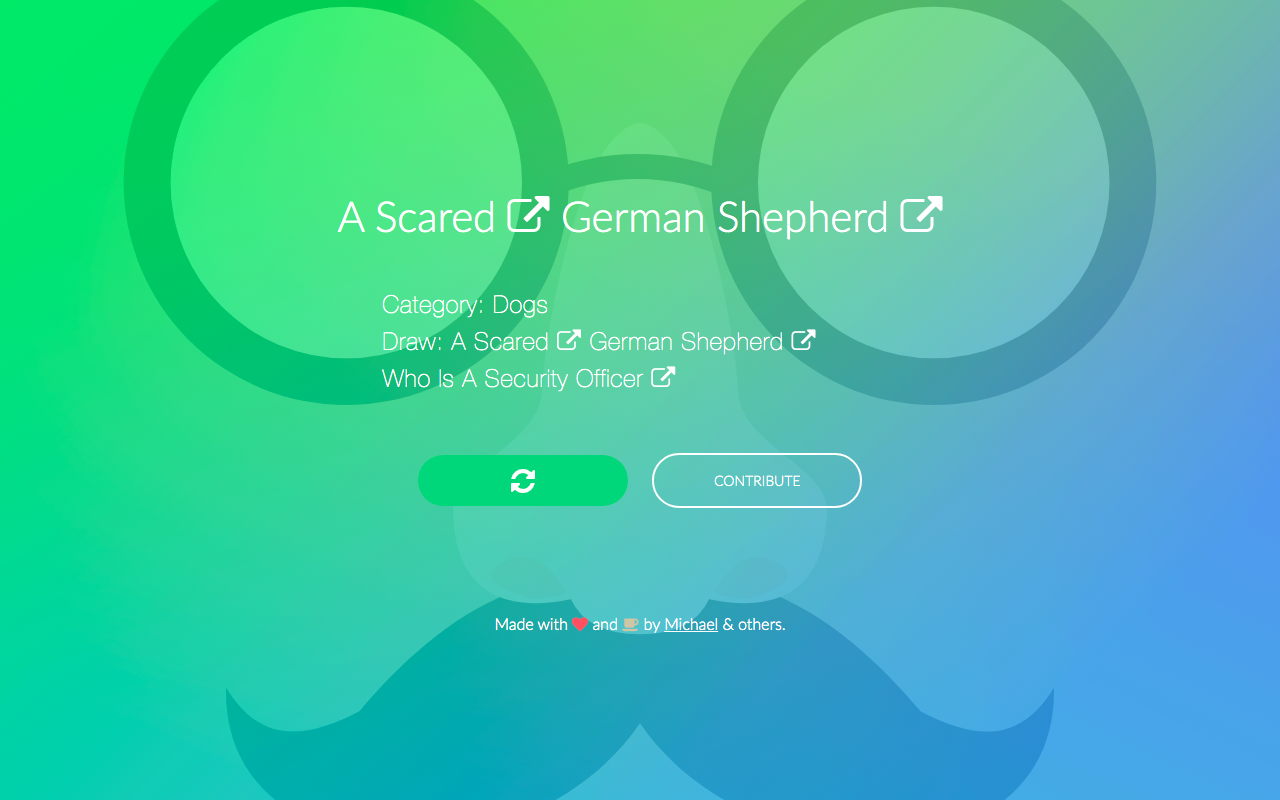
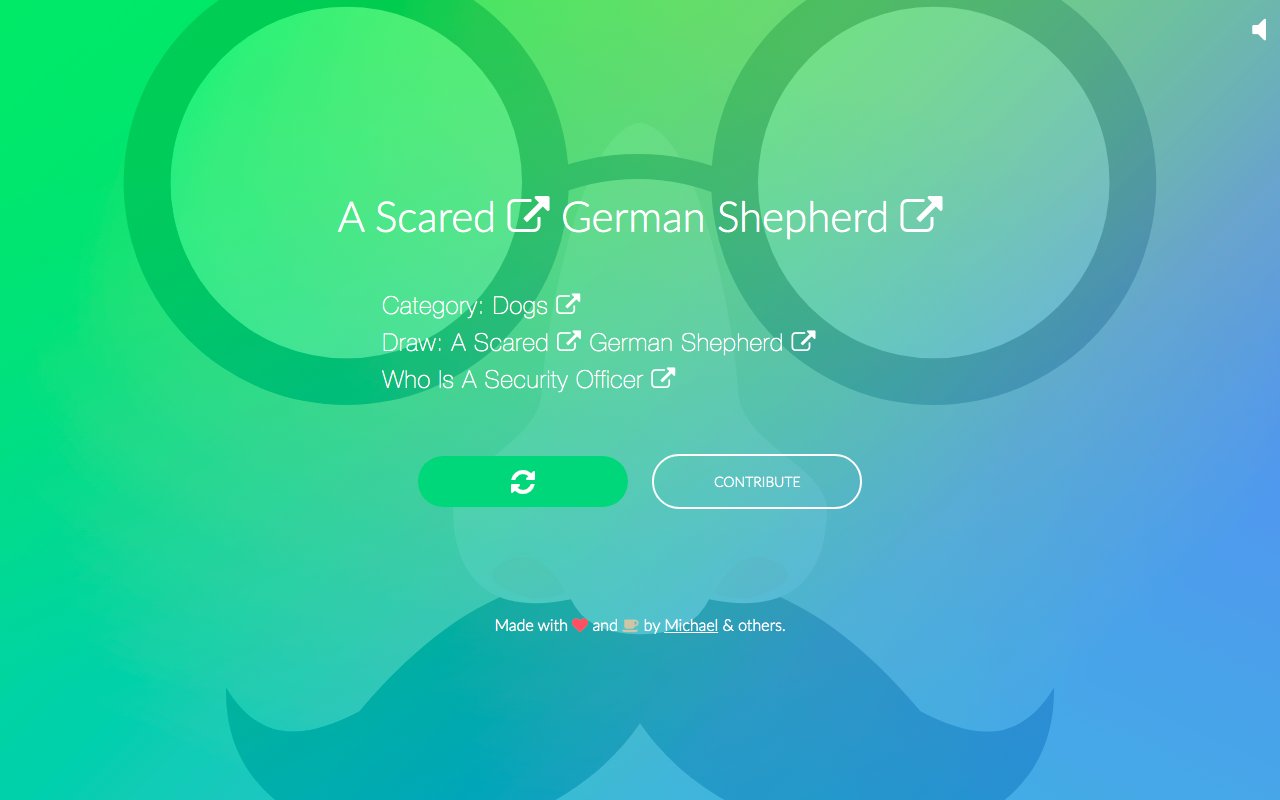
updated screenshot

diff --git a/js/script.js b/js/script.js
@@ -2486,6 +2486,11 @@ function init() {
   // generate character to draw
   character.innerHTML = ranMood + moodLink + " " + output;
   scenario.innerHTML = "Category: " + ranJSONItem + categoryLink + "<br>Draw: " + ranMood + moodLink + " " + output + "<br>Who is " + ranJob + jobLink + "<br>&nbsp;";
+
+  // sample for screenshot
+//  character.innerHTML = "A Scared <a class=\"whitetxt\" href=\"https://duckduckgo.com/?q=scared+characteristic%3F&t=h_&ia=web\" target=\"_blank\"><i class=\"fa fa-external-link\"></i></a> German Shepherd <a class=\"whitetxt\" href=\"https://duckduckgo.com/?q=german+shepherd+dogs&t=h_&iax=images&ia=images\" target=\"_blank\"><i class=\"fa fa-external-link\"></i></a>";
+//  scenario.innerHTML = "Category: Dogs <a class=\"whitetxt\" href=\"https://duckduckgo.com/?q=what+is+dogs%3F&t=h_&ia=web\" target=\"_blank\"><i class=\"fa fa-external-link\"></i></a>" + "<br>Draw: A Scared <a class=\"whitetxt\" href=\"https://duckduckgo.com/?q=scared+characteristic%3F&t=h_&ia=web\" target=\"_blank\"><i class=\"fa fa-external-link\"></i></a> German Shepherd <a class=\"whitetxt\" href=\"https://duckduckgo.com/?q=german+shepherd+dogs&t=h_&iax=images&ia=images\" target=\"_blank\"><i class=\"fa fa-external-link\"></i></a> <br>Who is a security officer <a class=\"whitetxt\" href=\"https://duckduckgo.com/?q=what+is+security+officer+dogs&t=h_&iax=images&ia=images\" target=\"_blank\"><i class=\"fa fa-external-link\"></i></a><br>&nbsp;";
+  
   return false;
 }
 
